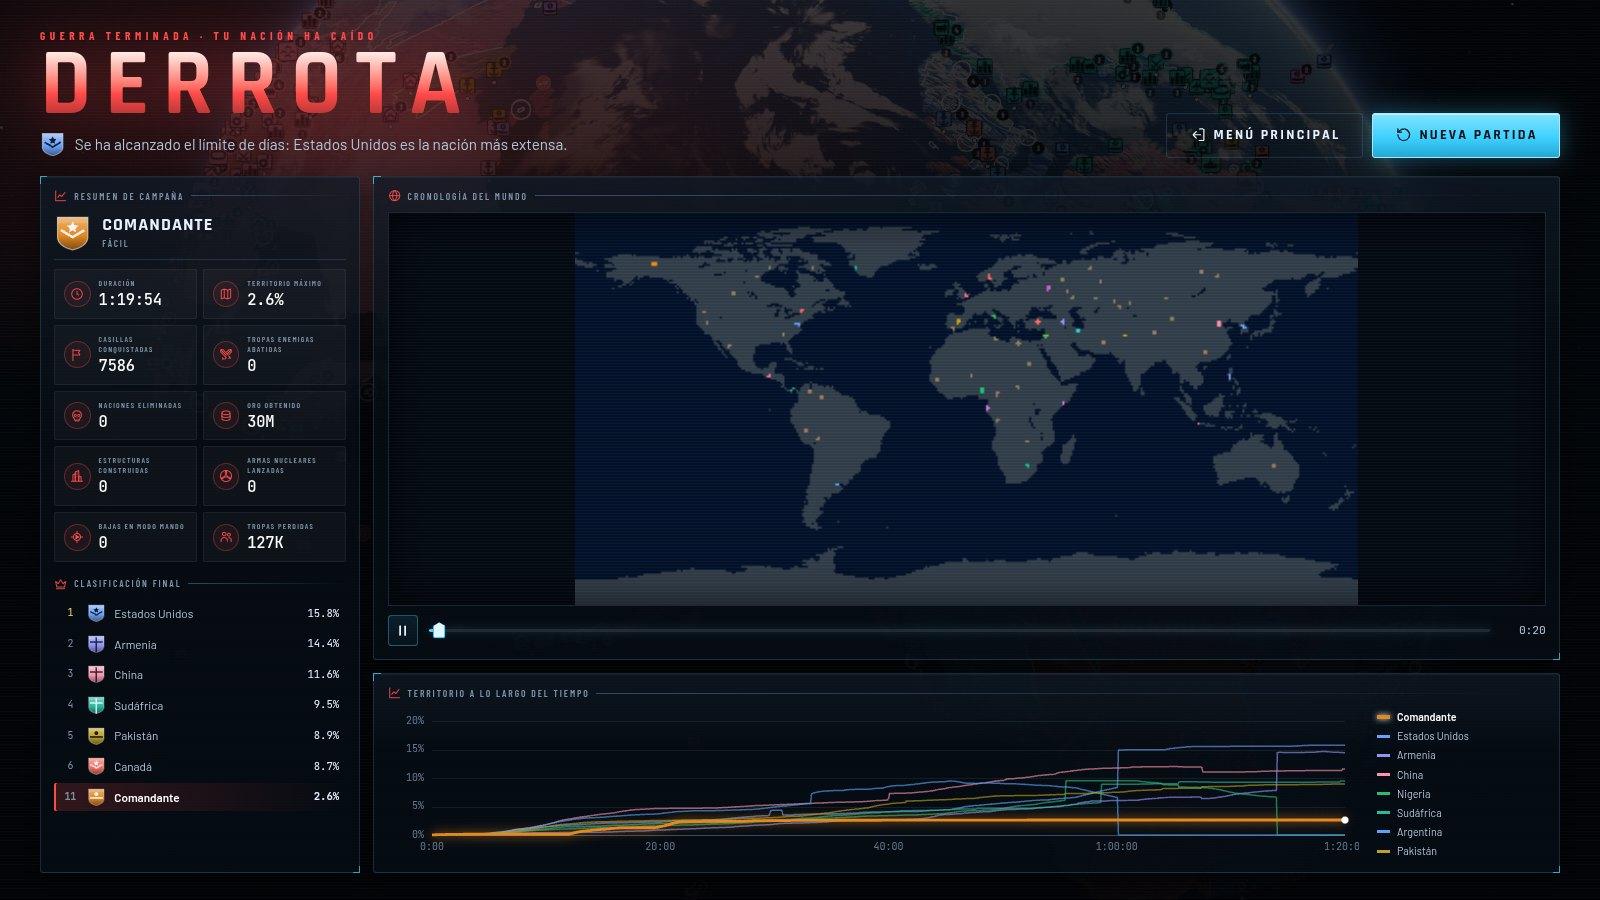
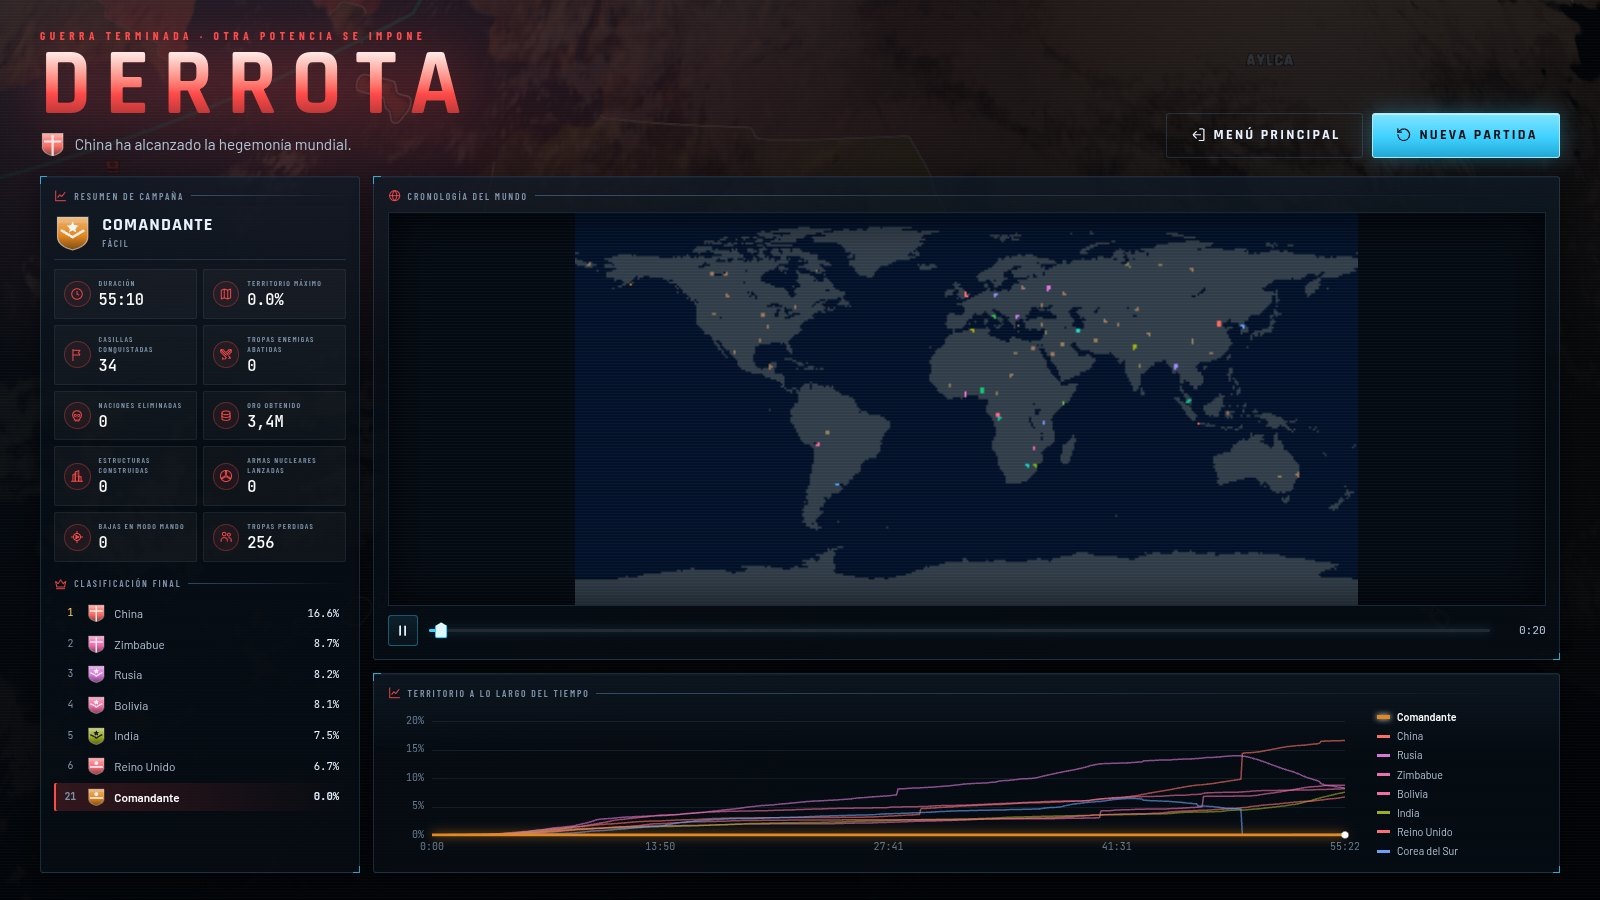
Release FRONT ULTRA v2
Production build verified from a subpath (0 console errors, 0 foreign or failed requests) by two full playtests and two complete games through the UI (one ended by the time limit, one by hegemony). End-screen land shares in the UI number format. Spanish README with gallery, CAMBIOS-V2 for the owner, V2-STATUS release notes.

Claude-Session: https://claude.ai/code/session_01C7wEm8y5j3LVbZViDkmRez

diff --git a/src/ui/end.ts b/src/ui/end.ts
@@ -20,6 +20,8 @@ export interface EndScreen {
 }
 
 const MAX_LINES = 8;
+/** A share of the land in the UI language's number format; a sliver of land never reads «0,0 %». */
+const pctText = (pct: number): string => (pct > 0 && pct < 0.1 ? `< ${formatNumber(0.1, 1)} %` : `${formatNumber(Math.round(pct * 10) / 10, 1)} %`);
 
 export function createEndScreen(ctx: GameContext, sound: (k: UiSoundKind) => void, reason: GameOverReason | null): EndScreen {
   const view = ctx.sim.view;
@@ -49,7 +51,7 @@ export function createEndScreen(ctx: GameContext, sound: (k: UiSoundKind) => voi
   const peakPct = st ? (Math.max(st.peakTiles, me?.tiles ?? 0) / land) * 100 : 0;
   const statCards: [string, string, string][] = [
     ['clock', 'end.stat.time', formatDuration(view.simTime)],
-    ['territory', 'end.stat.peak', `${peakPct.toFixed(1)}%`],
+    ['territory', 'end.stat.peak', pctText(peakPct)],
     ['flag', 'end.stat.conquered', formatNumber(st?.tilesConquered ?? 0)],
     ['swords', 'end.stat.killed', formatCompact(st?.troopsKilled ?? 0)],
     ['skull', 'end.stat.eliminated', formatNumber(st?.nationsEliminated ?? 0)],
@@ -79,7 +81,7 @@ export function createEndScreen(ctx: GameContext, sound: (k: UiSoundKind) => voi
       h('span', { class: 'fu-mono fu-end-rank-n' }, String(rank)),
       flag(p.color, p.id, 'fu-flag'),
       h('span', { class: 'fu-end-rank-name' }, name(p)),
-      h('span', { class: 'fu-mono fu-end-rank-v' }, p.alive ? `${((p.tiles / land) * 100).toFixed(1)}%` : '✝'),
+      h('span', { class: 'fu-mono fu-end-rank-v' }, p.alive ? pctText((p.tiles / land) * 100) : '✝'),
     ));
   }
 

diff --git a/docs/CAMBIOS-V2.md b/docs/CAMBIOS-V2.md
@@ -505,10 +505,13 @@ mando.
   de donde se dejó), invasión naval, propuesta desde el menú radial, paz con tributo, una propuesta de la IA aceptada en
   la bandeja y la pantalla final con vuelta al menú. Cada paso pasó en al menos una de las dos ejecuciones; los fallos
   sueltos fueron de la puesta en escena de la prueba (ver «Limitaciones»).
-- **Una partida entera** jugada por un guion a través de la interfaz (`tools/fullgame.mjs`: duración Corta, Fácil, los
-  primeros días a 1× y el resto a 4×, sin ayudas de depuración): 48.000 ticks (200 días de juego) en unos 25 minutos
-  reales, con la pantalla final («Derrota · se ha alcanzado el límite de días: Estados Unidos es la nación más
-  extensa») y la vuelta al menú principal, sin errores.
+- **Dos partidas enteras** jugadas por un guion a través de la interfaz (`tools/fullgame.mjs`: duración Corta, Fácil,
+  los primeros días a 1× y el resto a 4×, sin ayudas de depuración), cada una hasta que la simulación declaró el final
+  por sí misma, con la pantalla final y la vuelta al menú principal, sin errores:
+  - la primera terminó por el límite de 200 días (48.000 ticks, unos 25 minutos reales): ganó Estados Unidos, la nación
+    más extensa;
+  - la segunda terminó por **hegemonía** de China el día 139 (33.220 ticks, dentro de lo previsto para una partida
+    Corta), con «Derrota · Otra potencia se impone · China ha alcanzado la hegemonía mundial».
 - Auditorías sin interfaz de las rondas anteriores: ritmo (conquista, profundidad, desgaste, imperios, partidas
   completas), diplomacia, modo mando, aire, ejércitos, batallas y guerra naval.
 
@@ -535,10 +538,10 @@ mando.
   más amplia (unos 90 km) que el indicador de batalla (16 km).
 - **Un carro y una ciudad.** Con sus 20 proyectiles explosivos, un carro solo derriba unas pocas casas de una ciudad:
   las ciudades están pensadas para la artillería y los bombarderos; el trabajo del carro son las estructuras.
-- **Una partida Corta puede acabar por el límite de días.** En la partida completa de prueba el jugador del guion apenas
-  hizo nada (se expandió y esperó) y ninguna IA llegó a la hegemonía: a los 200 días ganó la nación más extensa
-  (Estados Unidos, 15,8 % de la tierra). Con un jugador activo y en las pruebas sin interfaz, las partidas Cortas
-  terminan antes por hegemonía, pero no está garantizado.
+- **Una partida Corta puede acabar por el límite de días.** En una de las dos partidas completas de prueba (con un
+  jugador del guion que apenas hacía nada) ninguna IA llegó a la hegemonía y a los 200 días ganó la nación más extensa
+  (Estados Unidos, 15,8 % de la tierra); en la otra, China ganó por hegemonía el día 139. El final por hegemonía o
+  dominio es lo habitual, pero no está garantizado.
 - **Pruebas automáticas sensibles a la puesta en escena.** En el recorrido completo, algunos pasos que preparan una
   situación (una ofensiva de la IA contra tu capital para oír la sirena, el orden en que aparecen los consejos del
   asesor, un clic que el renderizado por software lee como «mantener pulsado») fallan en una ejecución y pasan en otra.

diff --git a/docs/V2-STATUS.md b/docs/V2-STATUS.md
@@ -2003,8 +2003,11 @@ asset paths are proven), Chromium + SwiftShader, real UI.
     (the script acts — division, move, command — before the advisor reaches those tips).
 * `tools/fullgame.mjs` (new): one Short/Easy game through the UI, days 1-5 at 1x then 4x, the scripted player resumes
   auto-pause banners and pushes into free land, no debug actions. Ended by itself at tick 48,000 (time limit; United
-  States 15.8 %, the passive human 11th), end screen and «Menú principal» back to the menu, 0 errors, 24.7 min.
+  States 15.8 %, the passive human 11th), end screen and «Menú principal» back to the menu, 0 errors, 24.7 min. A second
+  game (after the end-screen fix) ended by **hegemony** (China) at tick 33,220 (inside T14's Corta window), «Derrota ·
+  Otra potencia se impone», back to the menu, 0 errors, 17.4 min.
 * Fixed: the end screen said «Tu nación ha caído» for a time-limit or hegemony defeat of a living nation; it now reads
-  «Otra potencia se impone» / «Another power prevails» (`end.kicker.outlasted`).
+  «Otra potencia se impone» / «Another power prevails» (`end.kicker.outlasted`); the land shares on the end screen use
+  the UI language's number format and a sliver of land reads «< 0,1 %», not «0.0%».
 * README.md (Spanish, gallery in docs/screenshots/, each < 300 KB) and docs/CAMBIOS-V2.md (all 32 items for the owner)
   written.
